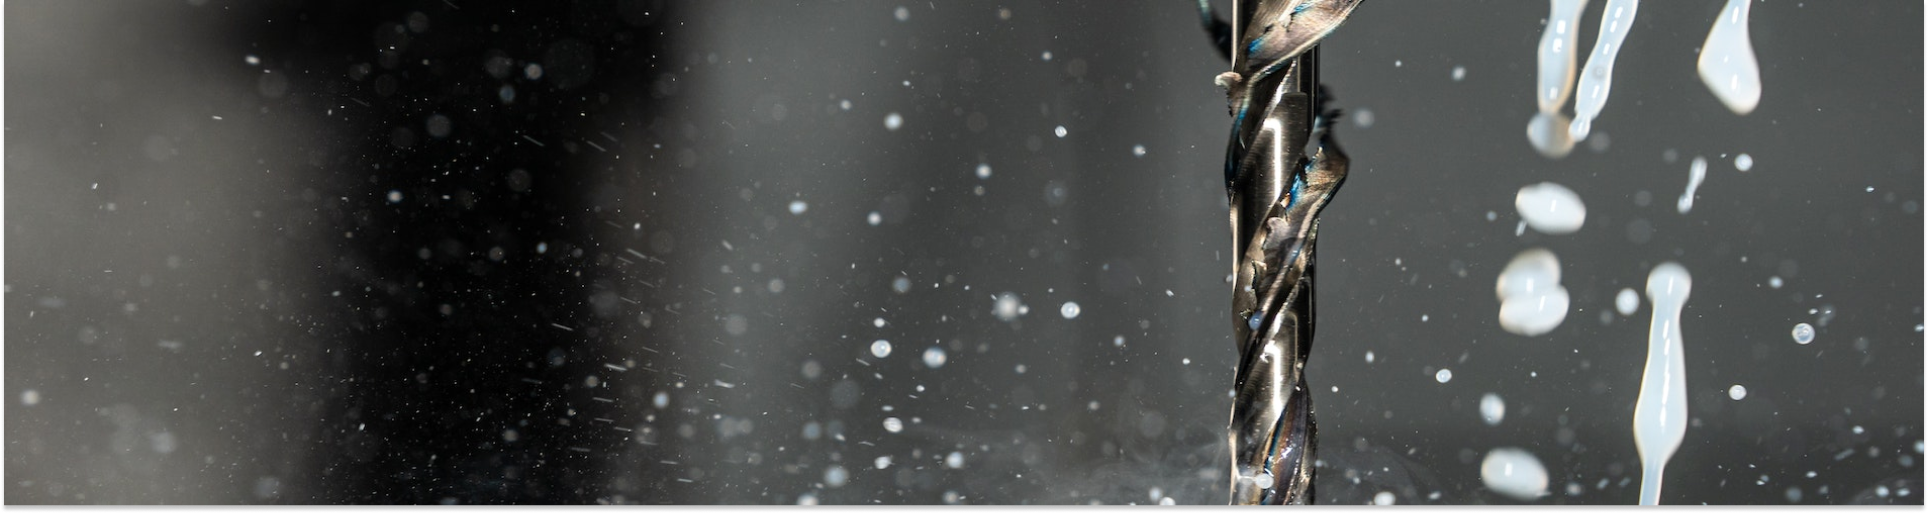
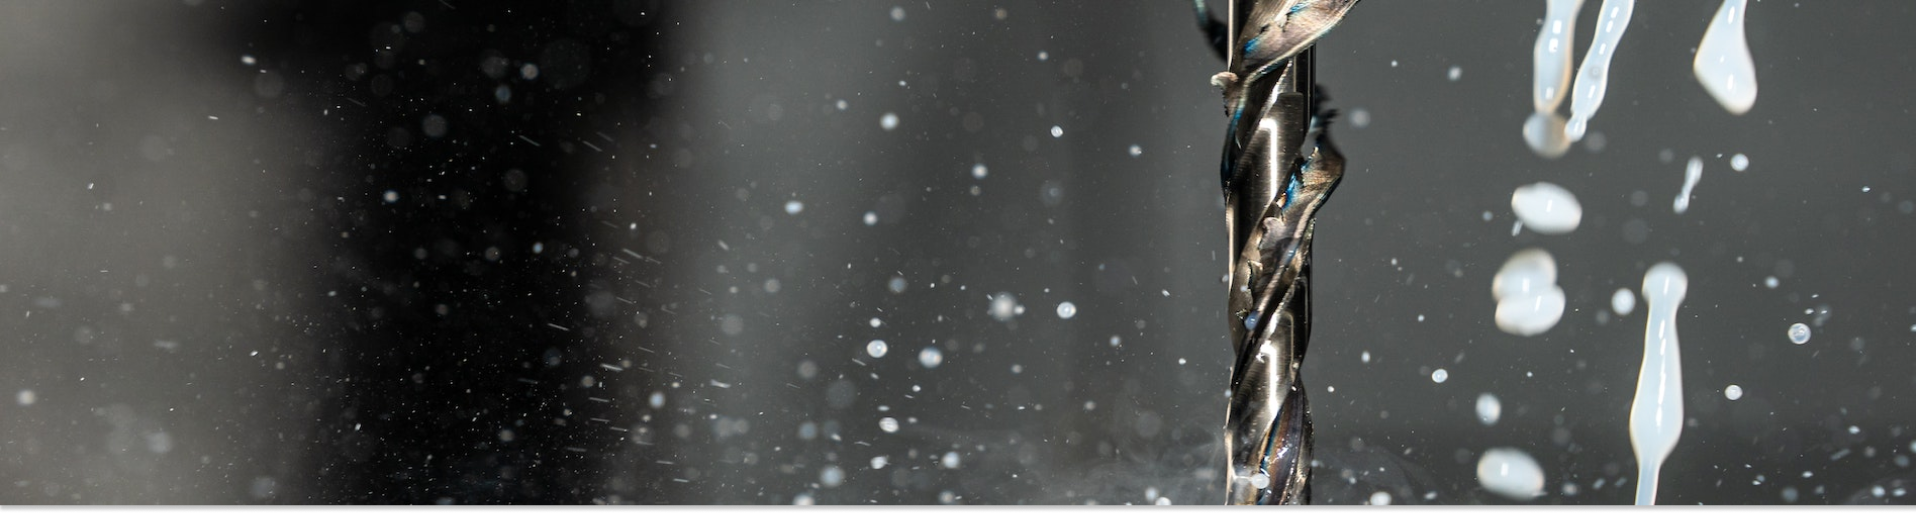
fix: removed extraneous pixels and images

diff --git a/src/pages/HomePage.tsx b/src/pages/HomePage.tsx
@@ -1,7 +1,7 @@
 import { Header } from '../templates/Header/Header';
 import { Grid } from '@mui/material';
 import { HeroSection } from '../components/HeroSection/HeroSection';
-import heroImage from '../assets/main-hero2.png';
+import heroImage from '../assets/main-hero.png';
 import { HeroSectionProps } from '../components/HeroSection/HeroSection.types';
 export function HomePage() {
   const heroSectionProps: HeroSectionProps = {
